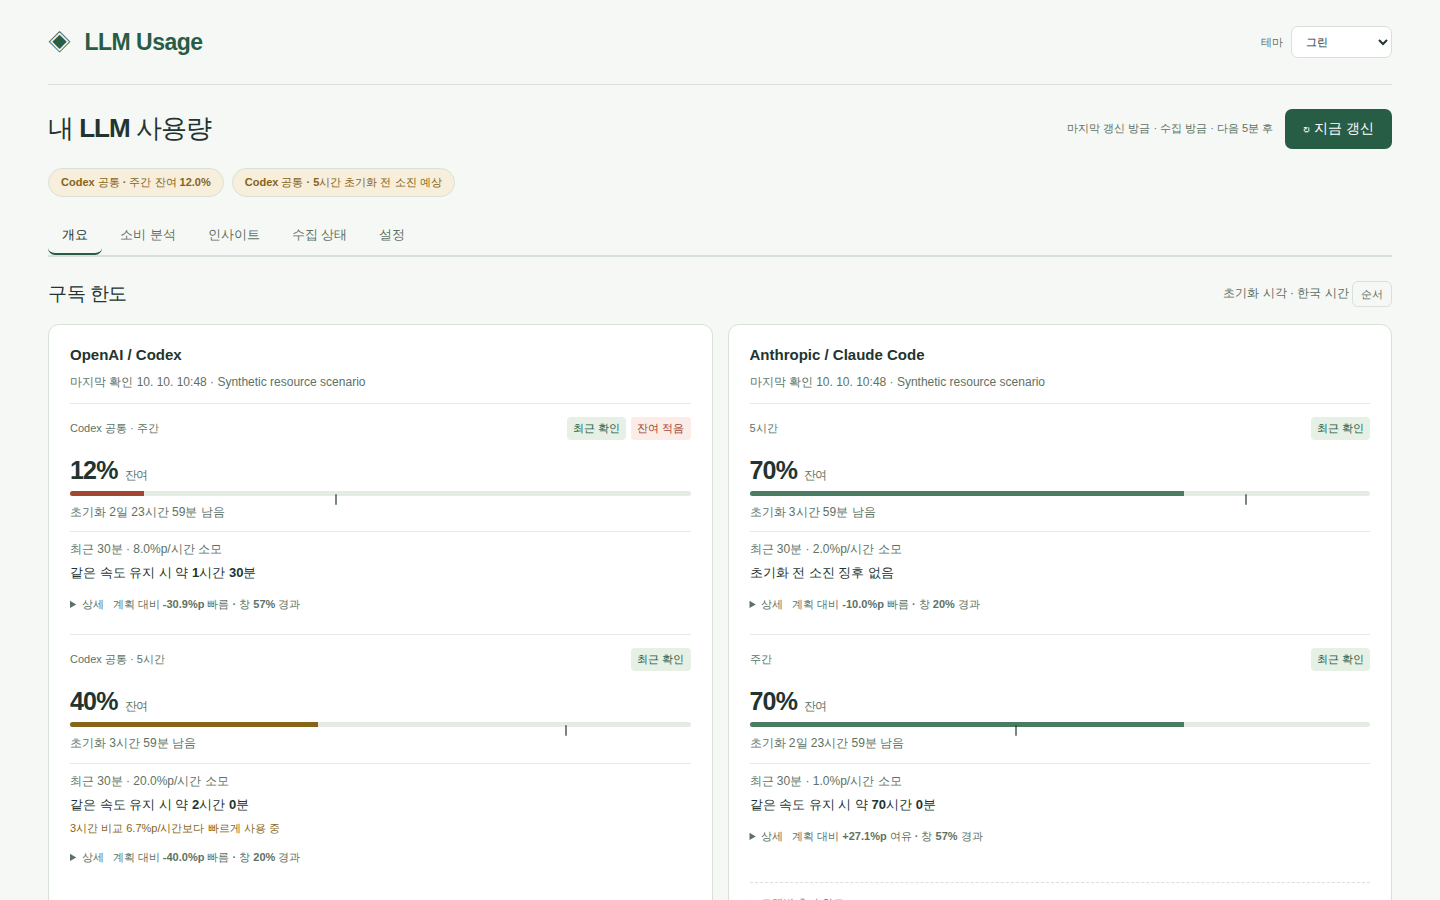
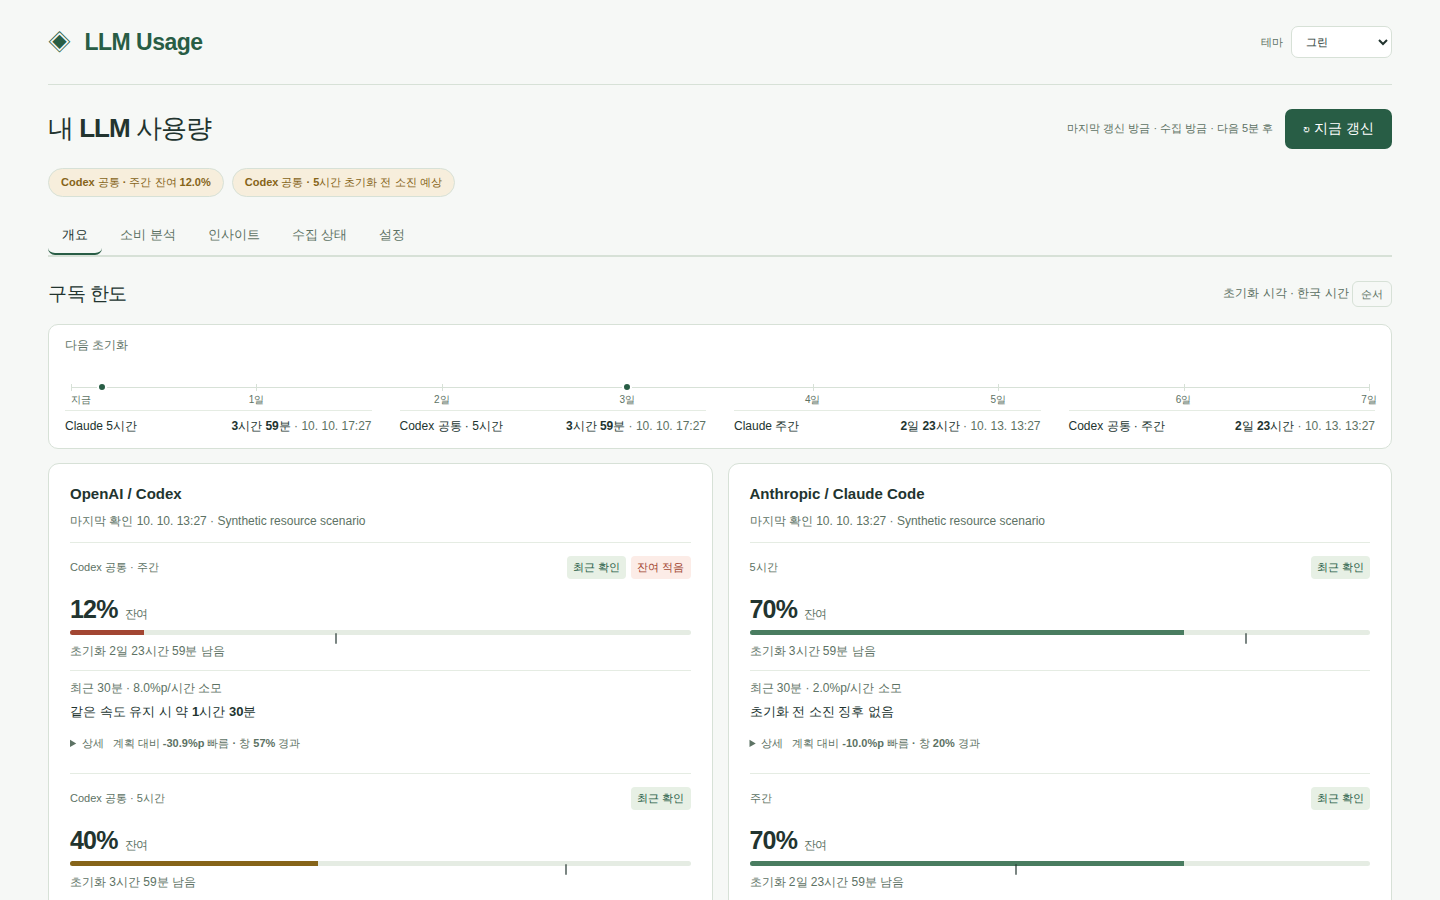
feat: compact resource rows, collection status and mobile header

diff --git a/llm_usage/web/resources.js b/llm_usage/web/resources.js
@@ -54,7 +54,7 @@ function resourceCard(row,opened){
  // Provider labels repeat the service name ("Claude 사용 크레딧"); the tag already shows it.
  const service=shortService[row.route]||row.route,name=row.label.startsWith(service+' ')?row.label.slice(service.length+1):row.label;
  const checkedText=checked?'확인 '+when(checked):'확인 기록 없음';
- return `<article class="resource-card ${esc(row.status)}" data-resource-id="${esc(row.id)}"><div class="resource-main"><h3><span class="resource-service">${esc(service)}</span> ${esc(name)}${badge}</h3><strong class="resource-value">${esc(resourceValue(row))}</strong></div>${expiry}<p class="resource-scope">${esc(scopeText)}${row.model?' · '+esc(row.model):''}</p><p class="resource-condition">${resourceConditions(row).map(esc).join(' · ')}</p>${duplicate}<details data-resource-detail="${esc(row.id)}"${opened.has(row.id)?' open':''}><summary>근거 <small class="resource-checked">${esc(checkedText)}</small></summary>${row.reported_total!=null&&row.reported_total!==row.amount?`<p>제공사 전체 잔액 ${esc(resourceValue(row,row.reported_total))} 중 범용 잔액만 위에 표시합니다.</p>`:''}${row.rate_per_hour!=null?`<p>최근 확인한 지출 ${esc(resourceValue(row,row.rate_per_hour))}/시간 · 같은 결제기간 원본 누적 지출 기준</p>`:''}${row.kind==='reset'&&!row.details_known&&row.origin==='auto'?'<p>초기화권별 적용 범위·만료 상세를 받지 못했습니다.</p>':''}<p>${checked?'마지막 확인 '+esc(when(checked))+' KST · ':''}${row.origin==='manual'?(row.account_scope==='independent'?'별도 API 자원 수동 기록':'수동 확인 기록 · 현재 계정의 제공사 화면에서 재확인'):(row.identity_verified?'기본 로그인 계정 기준 자동 조회':'계정 식별 미확인 · 제공사에서 계정을 확인하세요.')}</p>${row.check_url?`<a href="${esc(row.check_url)}" target="_blank" rel="noopener noreferrer">제공사에서 확인 ↗</a>`:''}</details>${row.origin==='manual'?`<div class="resource-actions"><button type="button" class="mini-btn" data-resource-edit="${esc(row.id)}">수정</button><button type="button" class="mini-btn" data-resource-delete="${esc(row.id)}">삭제</button></div>`:''}</article>`;
+ return `<article class="resource-card ${esc(row.status)}" data-resource-id="${esc(row.id)}"><div class="resource-main"><h3><span class="resource-service">${esc(service)}</span> ${esc(name)}${badge}</h3><strong class="resource-value">${esc(resourceValue(row))}</strong></div>${expiry}<p class="resource-scope">${esc(scopeText)}${row.model?' · '+esc(row.model):''}<span class="resource-condition"> · ${resourceConditions(row).map(esc).join(' · ')}</span></p>${duplicate}<details data-resource-detail="${esc(row.id)}"${opened.has(row.id)?' open':''}><summary>근거 <small class="resource-checked">${esc(checkedText)}</small></summary>${row.reported_total!=null&&row.reported_total!==row.amount?`<p>제공사 전체 잔액 ${esc(resourceValue(row,row.reported_total))} 중 범용 잔액만 위에 표시합니다.</p>`:''}${row.rate_per_hour!=null?`<p>최근 확인한 지출 ${esc(resourceValue(row,row.rate_per_hour))}/시간 · 같은 결제기간 원본 누적 지출 기준</p>`:''}${row.kind==='reset'&&!row.details_known&&row.origin==='auto'?'<p>초기화권별 적용 범위·만료 상세를 받지 못했습니다.</p>':''}<p>${checked?'마지막 확인 '+esc(when(checked))+' KST · ':''}${row.origin==='manual'?(row.account_scope==='independent'?'별도 API 자원 수동 기록':'수동 확인 기록 · 현재 계정의 제공사 화면에서 재확인'):(row.identity_verified?'기본 로그인 계정 기준 자동 조회':'계정 식별 미확인 · 제공사에서 계정을 확인하세요.')}</p>${row.check_url?`<a href="${esc(row.check_url)}" target="_blank" rel="noopener noreferrer">제공사에서 확인 ↗</a>`:''}</details>${row.origin==='manual'?`<div class="resource-actions"><button type="button" class="mini-btn" data-resource-edit="${esc(row.id)}">수정</button><button type="button" class="mini-btn" data-resource-delete="${esc(row.id)}">삭제</button></div>`:''}</article>`;
 }
 function renderResources(data){
  const opened=new Set([...$('resource-panel').querySelectorAll('[data-resource-detail][open]')].map(el=>el.dataset.resourceDetail));

diff --git a/llm_usage/web/style.css b/llm_usage/web/style.css
@@ -86,8 +86,12 @@ td{padding:14px 12px;border-bottom:1px solid var(--line);text-align:right;font-v
 td small{display:block;color:var(--subtle);font-size:var(--fs-meta);margin-top:4px}
 tfoot td{background:var(--raised);font-weight:650}
 summary{cursor:pointer;font-weight:600;margin-bottom:12px}
-.source-list{display:grid;grid-template-columns:repeat(2,1fr);gap:10px;margin-top:18px}
-.source{font-size:var(--fs-meta);line-height:1.7;color:var(--muted);padding:12px;border:1px solid var(--line);border-radius:5px}
+.source-list{display:grid;grid-template-columns:repeat(2,minmax(0,1fr));gap:8px;margin-top:16px}
+.source{font-size:var(--fs-meta);line-height:1.6;color:var(--muted);padding:9px 12px;border:1px solid var(--line);border-radius:7px;background:var(--surface)}
+.source-line{display:flex;justify-content:space-between;align-items:baseline;gap:10px;margin:0;font-size:var(--fs-small);line-height:1.5;color:var(--muted)}
+.source-line small{flex:none;font-variant-numeric:tabular-nums}
+.source-detail{display:block;overflow-wrap:anywhere}
+#coverage{font-size:var(--fs-small);line-height:1.7;max-width:75ch}
 .source.stale{opacity:.55}
 .source strong{color:var(--ink)}
 #error{background:var(--error-bg);color:var(--error-ink);padding:15px;border-radius:7px;margin-bottom:18px}
@@ -354,10 +358,14 @@ tr[data-scope]:hover{background:var(--raised)}
 .table-wrap thead th{position:sticky;top:0;z-index:2;background:var(--raised);box-shadow:0 1px 0 var(--line)}
 [data-panel="models"] .table-wrap{max-height:75vh}
 @media(max-width:700px){.heat-grid{min-width:520px}}
-.mobile-fold>summary{list-style:none}
-.mobile-fold>summary::-webkit-details-marker{display:none}
-.mobile-fold>summary h3{display:inline;font-size:15px}
-.mobile-fold:not([open])>summary{margin-bottom:0}
+:is(.mobile-fold,.fold)>summary{list-style:none}
+:is(.mobile-fold,.fold)>summary::-webkit-details-marker{display:none}
+:is(.mobile-fold,.fold)>summary h3{display:inline;font-size:15px}
+:is(.mobile-fold,.fold):not([open])>summary{margin-bottom:0}
+/* Every folding panel shows whether it is open, on every width. */
+:is(.mobile-fold,.fold)>summary::after{content:'＋';color:var(--muted);margin-left:6px}
+:is(.mobile-fold,.fold)[open]>summary::after{content:'−'}
+:is(.mobile-fold,.fold)>summary>span{margin-left:auto}
 @media(max-width:600px){
 
 
@@ -417,11 +425,8 @@ tr[data-scope]:hover{background:var(--raised)}
  .stat{padding:12px}
  .stat-value{font-size:23px;margin:5px 0}
  .panel{padding:13px;margin-bottom:10px}
- .panel h3,.mobile-fold>summary h3{font-size:13px}
- .mobile-fold>summary{min-height:32px;line-height:1.6;font-size:12px}
- .mobile-fold>summary::after{content:'＋';color:var(--muted);margin-left:6px}
- .mobile-fold[open]>summary::after{content:'−'}
- .mobile-fold>summary>span{margin-left:auto}
+ .panel h3,:is(.mobile-fold,.fold)>summary h3{font-size:13px}
+ :is(.mobile-fold,.fold)>summary{min-height:32px;line-height:1.6;font-size:12px}
  .mobile-fold .quality-stats{gap:13px;margin:15px 0}
  .quality-stats strong{font-size:20px}
  .insight-grid,.chart-grid{grid-template-columns:1fr;gap:0}
@@ -431,7 +436,7 @@ tr[data-scope]:hover{background:var(--raised)}
  .data-gap{padding:9px 11px;margin-bottom:10px;font-size:var(--fs-meta)}
  .data-gap span{font-size:var(--fs-meta)}
  .hint{margin-top:9px}
- .source-list{grid-template-columns:1fr}
+ .source-list{grid-template-columns:1fr;gap:6px}
  .sub-row{display:grid;grid-template-columns:1fr;gap:3px}
  .sub-row>strong{min-width:0}
  .insight-table{max-height:230px}

diff --git a/llm_usage/web/index.html b/llm_usage/web/index.html
@@ -55,7 +55,7 @@
 </section>
 <section class="activity" data-view="insights" id="view-insights" role="tabpanel" aria-labelledby="tab-insights" hidden><div class="section-heading"><h2>인사이트</h2><span>캐시 · 기간 비교 · 신뢰도 <button type="button" class="order-toggle" data-order-scope="panels">순서</button></span></div>
 <div id="insights-status" class="collector-banner" role="status" hidden><span id="insights-message"></span> <button type="button" id="insights-retry" class="mini-btn" hidden>인사이트 다시 불러오기</button></div>
-<details class="panel" id="cache-panel" data-panel="cache"><summary>캐시 활용률 분석</summary><p class="hint">캐시 읽기 ÷ (일반 입력 + 캐시 읽기 + 캐시 생성). 비용 절감률이 아닌 입력 재사용 비중입니다.</p><div id="cache-overview"></div><label class="insight-select" for="cache-series">추이 항목<select id="cache-series"></select></label><div id="cache-trend"></div><div id="cache-rows" class="table-wrap insight-table"></div></details>
+<details class="panel fold" id="cache-panel" data-panel="cache"><summary class="section-heading"><h3>캐시 활용률 분석</h3><span>입력 재사용 비중 · 모델별 추이</span></summary><p class="hint">캐시 읽기 ÷ (일반 입력 + 캐시 읽기 + 캐시 생성). 비용 절감률이 아닌 입력 재사용 비중입니다.</p><div id="cache-overview"></div><label class="insight-select" for="cache-series">추이 항목<select id="cache-series"></select></label><div id="cache-trend"></div><div id="cache-rows" class="table-wrap insight-table"></div></details>
 <details class="panel mobile-fold" open data-panel="subvalue" data-mobile-open><summary class="section-heading"><h3>구독 가치 분석</h3><span>공개 단가 환산 ÷ 월 구독료</span></summary><div id="subvalue"></div><p class="hint">실제 지출이 아닌 리스트 가격 환산입니다. 월 구독료는 설정 탭에서 수정할 수 있습니다.</p></details>
 <details class="panel mobile-fold" open data-panel="calendar"><summary class="section-heading"><h3>일별 활동</h3><span id="calendar-caption">최근 16~26주 · 일별 토큰 · 기간 필터 무관</span></summary><div id="calendar"></div><p class="hint">한국 시간 기준 · 색이 진할수록 그날 사용량이 큽니다.</p></details>
 <details class="panel mobile-fold" open data-panel="projects"><summary class="section-heading"><h3>프로젝트별 사용량</h3><span>선택 기간 · 작업 디렉터리명 기준</span></summary><div class="panel-tools"><button type="button" id="proj-cols" class="mini-btn" aria-pressed="false">상세 열</button><button type="button" id="csv-projects" class="mini-btn">CSV</button></div><div class="table-wrap insight-table"><table class="has-detail"><thead><tr><th scope="col">프로젝트</th><th scope="col" class="col-detail">세션</th><th scope="col">요청</th><th scope="col">토큰</th><th scope="col">비용 추정</th><th scope="col" class="col-detail">최근 활동</th><th scope="col"><span class="sr-only">상세</span></th></tr></thead><tbody id="projects"></tbody></table></div><p class="hint">전체 경로 대신 디렉터리명만 표시합니다. 서로 다른 위치의 같은 디렉터리명은 같은 프로젝트로 합산되고, `미분류`는 프로젝트 정보가 없는 기록(Antigravity 등)입니다.</p></details>

diff --git a/llm_usage/web/analysis.js b/llm_usage/web/analysis.js
@@ -230,7 +230,7 @@ function renderSources(list){
  for(const s of [...list].sort((a,b)=>(SOURCE_RANK[a.status]??4)-(SOURCE_RANK[b.status]??4)||a.name.localeCompare(b.name)))
   (groups.get(sourceGroup(s.name))||groups.set(sourceGroup(s.name),[]).get(sourceGroup(s.name))).push(s);
  const worst=items=>Math.min(...items.map(s=>SOURCE_RANK[s.status]??4));
- const card=s=>`<div class="source${bucket(s)==='idle'||s.status==='stale'?' stale':''} src-${bucket(s)}"><strong>${esc(s.name)}</strong> · ${esc(statuses[s.status]||s.status)}<br>${esc(s.detail||'')}<br>마지막 확인 ${when(s.checked)}${SOURCE_HINTS[s.status]?`<small class="source-hint">${esc(SOURCE_HINTS[s.status])}</small>`:''}</div>`;
+ const card=s=>`<div class="source${bucket(s)==='idle'||s.status==='stale'?' stale':''} src-${bucket(s)}"><p class="source-line"><span><strong>${esc(s.name)}</strong> · ${esc(statuses[s.status]||s.status)}</span><small>${s.checked?when(s.checked):'확인 기록 없음'}</small></p>${s.detail?`<small class="source-detail">${esc(s.detail)}</small>`:''}${SOURCE_HINTS[s.status]?`<small class="source-hint">${esc(SOURCE_HINTS[s.status])}</small>`:''}</div>`;
  const ordered=[...groups.entries()].sort((a,b)=>(a[0]==='내부 작업')-(b[0]==='내부 작업')||worst(a[1])-worst(b[1]));
  $('sources').innerHTML=`<div class="source-summary"><span class="ok">정상 <strong>${counts.ok}</strong></span><span class="warn">확인 필요 <strong>${counts.warn}</strong></span><span class="bad">실패·미수집 <strong>${counts.bad}</strong></span><span class="idle">미사용 <strong>${counts.idle}</strong></span></div>`
   +ordered.map(([name,items])=>name==='내부 작업'

diff --git a/tests/browser_resource_planning.py b/tests/browser_resource_planning.py
@@ -135,6 +135,18 @@ with tempfile.TemporaryDirectory(prefix='llm-resource-browser-') as root:
             credit=next(r for r in items if r['route']=='claude-code' and r['pool_key']=='prepaid-credits')
             expect(page.locator(f'[data-resource-id="{credit["id"]}"] .resource-expiry')).to_contain_text('일부 잔액 다음 만료')
             assert page.evaluate('document.documentElement.scrollWidth<=innerWidth')
+            # When each quota comes back is readable without opening anything.
+            expect(page.locator('#reset-timeline')).to_be_visible()
+            expect(page.locator('#reset-timeline .reset-item')).to_have_count(4)
+            expect(page.locator('#reset-timeline .reset-item').first).to_contain_text('3시간')
+            if width<600:
+                windows=page.locator('[data-quota="codex"] .ov-win')
+                expect(windows).to_have_count(2)
+                for index in range(2):expect(windows.nth(index).locator('small')).to_contain_text('시간')
+            # Resource rows stay short: one line per fact, plus one line per reset grant.
+            sizes=page.locator('#resource-list .resource-card').evaluate_all(
+                "cs=>cs.map(c=>[c.getBoundingClientRect().height,c.querySelectorAll('.resource-grants li').length])")
+            assert sizes and all(height<=180+50*max(0,grants-1) for height,grants in sizes),sizes
             page.screenshot(path=str(output/f'work-now-{width}.png'),full_page=True)
             if width==1440:
                 page.evaluate("() => document.querySelector('.sticky-nav').style.visibility='hidden'")

diff --git a/tests/browser_insights.py b/tests/browser_insights.py
@@ -237,7 +237,7 @@ async def main():
             await expect(page.locator('.limit-card:visible')).to_have_count(0)
             overview=await page.locator('#quota-overview').bounding_box()
             assert overview['height']<350
-            order=await page.locator('main h3, #cache-panel > summary, #sources-panel h2').all_text_contents()
+            order=await page.locator('main h3, #sources-panel h2').all_text_contents()
             assert order==['다음 초기화','수동 자원 기록','오늘·이번 주 작업 전망','필터','사용 추이','토큰 구성','모델별 사용량 순위','시간대별 사용 패턴','모델별 사용량 상세',
                            '캐시 활용률 분석','구독 가치 분석','일별 활동','프로젝트별 사용량','세션별 사용량','주간 리포트',
                            '이전 기간과 비교','데이터 신뢰도','수집 범위와 상태','이 기기의 오프라인 통계','월 구독료','모델 단가','임계값','알림 · 자동 갱신','프로젝트 예산','외부 알림'],order

diff --git a/workthrough/2026-10-10-compact-mobile-ui.md b/workthrough/2026-10-10-compact-mobile-ui.md
@@ -1,0 +1,55 @@
+# 개요 화면 압축·초기화 일정 복원
+
+## 요청과 범위
+
+사용자는 0.2.x에서 추가된 초기화권·추가 크레딧 카드가 불필요하게 커서 모바일에서 보기 불편하고,
+원래 바로 보이던 다음 초기화 일정이 접힌 상태가 기본이 된 점을 지적했다. 전체 디자인·사용성
+개선과 그에 따른 기능 정리를 함께 요청했다. 시작 main은 `ec5df22`(0.2.1)이다.
+
+`feat/compact-mobile-ui`의 독립 worktree와 uv 0.12.23 `uv sync --locked` 환경을 사용했다.
+수집·집계·API·의존성·프로젝트 버전은 바꾸지 않는다. 운영 배포는 이번 요청 범위에 없다.
+
+## 변경 전 확인
+
+합성 자원 시나리오(`tests/browser_resource_planning.py`와 같은 데이터)를 실제 Flask 앱으로 띄워
+390/1440px 화면을 확인했다.
+
+- 다음 초기화 시간표는 `0.2.0`의 `bdf065a`에서 `<details>`로 접혔다. 모바일 한도 목록은
+  잔여율만 보여 초기화 시각을 보려면 서비스 카드나 시간표를 열어야 했다.
+- 자원 카드 하나가 모바일에서 330–600px였고, 개요 전체 높이는 3870px였다. 서비스 이름이
+  카드 머리와 제목에 두 번 나오고, 확인 시각·적용 범위·조건이 각각 별도 줄이었다.
+- 모바일 상단은 브랜드와 같은 의미의 h1·갱신 버튼이 별도 줄로 약 190px를 차지했다.
+- 수집 상태 카드는 이름·상태·설명·확인 시각을 각각 한 줄씩 썼다.
+
+## 구현
+
+- **다음 초기화**: 접기를 없애고 구독 한도 목록과 서비스 카드 사이에 항상 표시한다. 7일 축은
+  유지하고 행은 `라벨 — 남은 시간 · 시각` 한 줄로 줄였다. 데스크톱은 여러 열 격자로 놓는다.
+  소진 중인 한도의 남은 시간은 경고색으로 표시한다.
+- **모바일 한도 목록**: 한도마다 `5h 40.0%  3시간 59분`처럼 잔여와 초기화까지 남은 시간을
+  한 줄씩 보여 주고 잔여 수준을 색으로 구분한다. Antigravity 묶음 형식은 유지했다.
+- **추가 사용 자원**: 제목(서비스 태그+이름)과 값을 한 줄에 두고, 만료는 짧은 KST 날짜와
+  남은 시간을 함께 표시한다(다른 해일 때만 연도). 적용 범위와 사용 조건을 한 줄로 합치고
+  확인 시각은 근거 요약으로 옮겼다. 정상 자동 조회는 배지를 생략하고 그 외 상태만 배지로
+  표시한다. 초기화권은 회수·만료·대상·사용 조건을 한 행에 두고 사용·만료된 권은 흐리게 한다.
+  모바일에서는 한 목록 안에 구분선으로 나열한다.
+- **기타**: 모바일 h1은 화면에서 숨기고(스크린 리더 유지) 갱신 상태·버튼을 한 줄로 배치했다.
+  ‘지금 작업’의 확인 버튼은 직접 입력 작업시간일 때만 보인다(나머지는 변경 즉시 적용).
+  기간 요약·수집 상태 카드를 압축하고 수집 범위 설명 글자 크기를 맞췄다. 접는 패널은 모든
+  폭에서 ＋/− 표시를 보이며, 캐시 활용률 분석도 같은 머리 형식을 쓰되 데스크톱 기본 닫힘은 유지한다.
+- `format.js`에 짧은 남은 시간 `soon`과 KST 날짜 `stamp`를 추가하고 단위 테스트를 붙였다.
+
+변경 후 같은 합성 화면에서 모바일 개요는 3870px → 약 2820px, 자원 영역은 약 2300px → 약
+1060px, 자원 행은 125–165px(초기화권 3개 행 240px)이다.
+
+## 검증
+
+- `node --check llm_usage/web/*.js`, `node --test 'tests/js/*.test.mjs'` 26개 통과.
+- `tests/browser_ci.py` 16개 묶음 통과. 바뀐 기대값은 두 가지다: 접기 클릭 대신 일정이
+  바로 보이는지 확인, 모바일 제목 순서에 ‘다음 초기화’ 추가.
+- `browser_resource_planning.py`에 320/390/1440px 회귀 검사를 추가했다: 일정이 클릭 없이
+  보이고 4행인지, 모바일 Codex 행의 두 한도에 남은 시간이 있는지, 자원 행 높이가
+  `180px + 초기화권 추가 행당 50px` 이하인지. 같은 검사를 변경 전 main 화면에 적용하면
+  일정 표시 단계에서 실패함을 확인했다.
+- Python 단위 테스트 329개 통과. 문서 합성 화면 두 장은 같은 브라우저 검사 산출물로 교체했다.
+- 합성 fixture 검증만 수행했다. 실제 계정 화면·운영 배포는 확인하지 않았다.

diff --git a/docs/usage.md b/docs/usage.md
@@ -5,7 +5,7 @@
 개요는 **구독 한도 → 추가 사용 자원 → 지금 작업 → 기간 요약** 순서입니다. 잔여 한도와 초기화 시각을 먼저 확인합니다.
 
 **지금 작업**에서 서비스·모델/한도 묶음·작업시간·속도 기준을 선택합니다. 같은 속도가 유지될 때의 지속 시간과 제약 한도를 보여 주고, 조건을 확인한 대안만 최대 두 개 제시합니다. 선택은 대시보드의 비교 기준이며 실제 사용하는 도구의 모델을 바꾸지 않습니다.
-서비스 카드의 잔여량·최근 소모 속도·소진 전망은 상세를 펼치지 않아도 보입니다. 모바일에서는 서비스를 선택해 카드를 봅니다. 그래프·과거 기록·초기화 시간표는 펼쳐 확인합니다.
+**다음 초기화** 일정은 펼치지 않아도 시각순으로 보입니다. 서비스 카드의 잔여량·최근 소모 속도·소진 전망도 상세 밖에 있습니다. 모바일 한도 목록은 한도별 잔여와 초기화까지 남은 시간을 한 줄씩 보여 주고, 서비스를 선택하면 카드를 엽니다. 그래프·과거 기록은 펼쳐 확인합니다.
 주간 소진으로 짧은 창이 막힐 때도 원래 관측값을 바꾸지 않습니다. 오래되거나 초기화가 지난 값으로 잔여를 복원하지 않습니다.
 분석은 추이·누적·점유율·토큰 구성·모델 순위·시간 패턴·상세 표를 제공합니다. 기간·간격·제공사·서비스·모델·프로젝트로 좁힐 수 있습니다.
 모델별 보기에는 모든 관측 모델을 유지하며 긴 순위·툴팁은 스크롤합니다. 모바일 날짜는 두 번 탭해 시간별로 내려갑니다.

diff --git a/CHANGELOG.md b/CHANGELOG.md
@@ -1,5 +1,13 @@
 # 변경 기록
 
+## 미출시
+
+- 다음 초기화 일정을 접지 않고 구독 한도 바로 아래에 시각순으로 표시합니다. 모바일 한도 목록에도 한도별 초기화까지 남은 시간을 함께 보여 줍니다.
+- 추가 사용 자원을 한 줄 제목·값, 만료(남은 시간 포함), 적용 범위·조건 한 줄로 압축했습니다. 모바일에서는 한 목록 안에 구분선으로 나열하고 확인 시각은 근거 안으로 옮겼습니다.
+- 모바일 상단의 중복 제목을 화면에서 숨기고 갱신 상태·버튼을 한 줄로 배치했습니다. 기간 요약·수집 상태 카드도 압축했습니다.
+- ‘지금 작업’의 확인 버튼은 작업시간을 직접 입력할 때만 표시합니다. 다른 선택은 바뀌는 즉시 적용됩니다.
+- 접는 패널은 모든 화면 폭에서 열림·닫힘 표시를 보여 주며, 캐시 활용률 분석도 같은 형식으로 맞췄습니다.
+
 ## 0.2.1 — 2026-10-10
 
 - 개요 첫 화면에 구독 한도를 복구하고 추가 자원·작업 전망을 그 아래로 배치했습니다.
